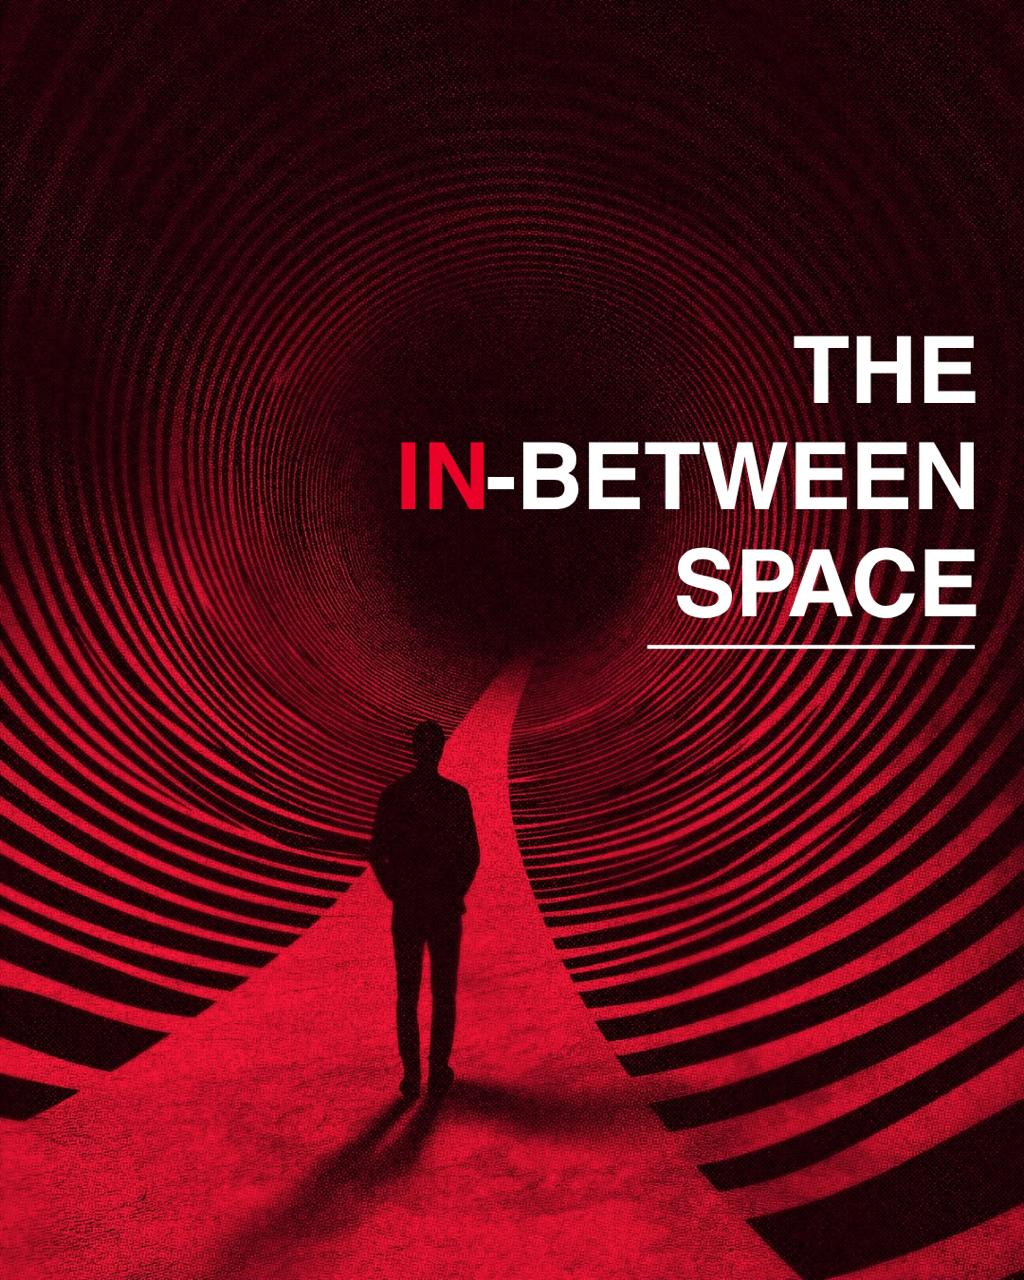
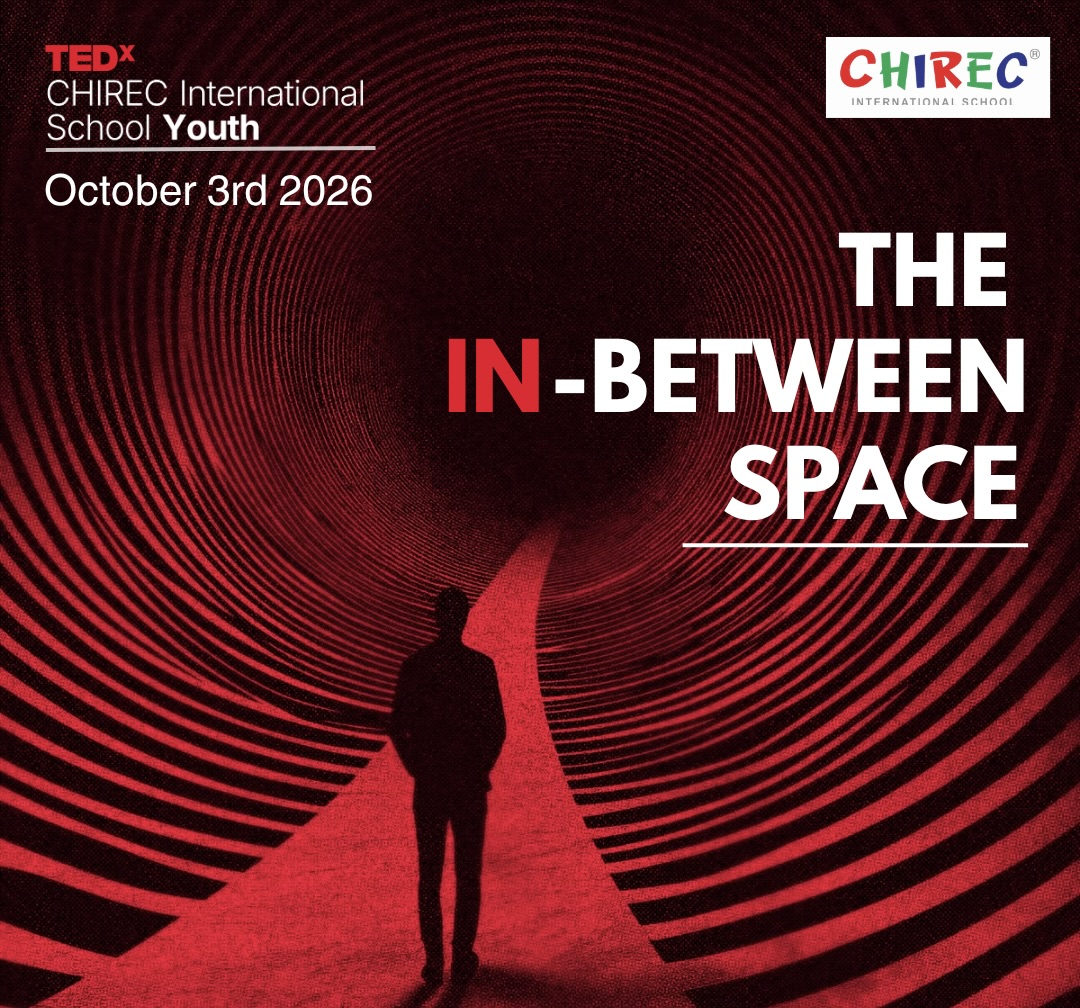
redid home page

diff --git a/src/pages/home.tsx b/src/pages/home.tsx
@@ -43,7 +43,7 @@ export function AnimatedHexBackground() {
       <motion.div
         animate={{ y: [0, -15, 0], rotate: [0, 6, 0] }}
         transition={{ duration: 14, repeat: Infinity, ease: "easeInOut" }}
-        className="absolute top-24 left-[8%] w-36 h-36 text-[#EB0028]/15 hidden md:block"
+        className="absolute top-24 left-[8%] w-36 h-36 text-[#EB0028]/20 hidden md:block"
       >
         <svg viewBox="0 0 100 100" className="w-full h-full stroke-current fill-none" strokeWidth="1">
           <polygon points="50,3 93,25 93,75 50,97 7,75 7,25" />
@@ -54,7 +54,7 @@ export function AnimatedHexBackground() {
       <motion.div
         animate={{ y: [0, 18, 0], rotate: [0, -8, 0] }}
         transition={{ duration: 18, repeat: Infinity, ease: "easeInOut" }}
-        className="absolute bottom-20 right-[10%] w-48 h-48 text-[#EB0028]/10 hidden md:block"
+        className="absolute bottom-20 right-[10%] w-48 h-48 text-[#EB0028]/15 hidden md:block"
       >
         <svg viewBox="0 0 100 100" className="w-full h-full stroke-current fill-none" strokeWidth="1.2">
           <polygon points="50,3 93,25 93,75 50,97 7,75 7,25" />
@@ -134,7 +134,7 @@ export function Home() {
       <SharedSVGDefs />
 
       {/* HERO SECTION */}
-      <section className="relative flex flex-col items-center justify-center px-4 sm:px-8 pt-36 pb-20 text-center min-h-[85vh] z-10">
+      <section className="relative flex flex-col items-center justify-center px-4 sm:px-8 pt-28 pb-20 text-center min-h-[85vh] z-10">
         <AnimatedHexBackground />
 
         {/* HERO THEME IMAGE — fills full viewport width, falls back to text box if it fails */}
@@ -142,19 +142,29 @@ export function Home() {
           initial={{ opacity: 0, scale: 0.97, y: 8 }}
           animate={{ opacity: 1, scale: 1, y: 0 }}
           transition={{ duration: 0.7, delay: 0.1, ease: "easeOut" }}
-          className="w-full max-w-2xl mx-auto z-10 mb-8"
+          className="w-full max-w-3xl mx-auto z-10 mb-8"
         >
-          <img
-            src={`${(import.meta as any).env?.BASE_URL || "/"}tedx_theme_pic_cropped.jpeg`}
-            alt="The In-Between Space — TEDxYouth@CHIREC 2026"
-            className="w-full h-auto block"
-            onError={(e) => {
-              const img = e.currentTarget;
-              img.style.display = "none";
-              const fallback = img.nextElementSibling as HTMLElement | null;
-              if (fallback) fallback.style.display = "block";
-            }}
-          />
+          <div className="relative w-full">
+            <img
+              src={`${(import.meta as any).env?.BASE_URL || "/"}tedx_theme_pic.jpeg`}
+              alt="The In-Between Space — TEDxYouth@CHIREC 2026"
+              className="w-full h-auto block"
+              onError={(e) => {
+                const img = e.currentTarget;
+                img.style.display = "none";
+                const fallback = img.parentElement?.nextElementSibling as HTMLElement | null;
+                if (fallback) fallback.style.display = "block";
+              }}
+            />
+            {/* Fake fading black border — sits over the image edges, blends into the page */}
+            <div
+              className="absolute inset-0 pointer-events-none"
+              style={{
+                boxShadow: "inset 0 0 40px 20px #050507",
+              }}
+            />
+          </div>
+          
 
           {/* FALLBACK: theme text box, hidden unless the image fails */}
           <div
